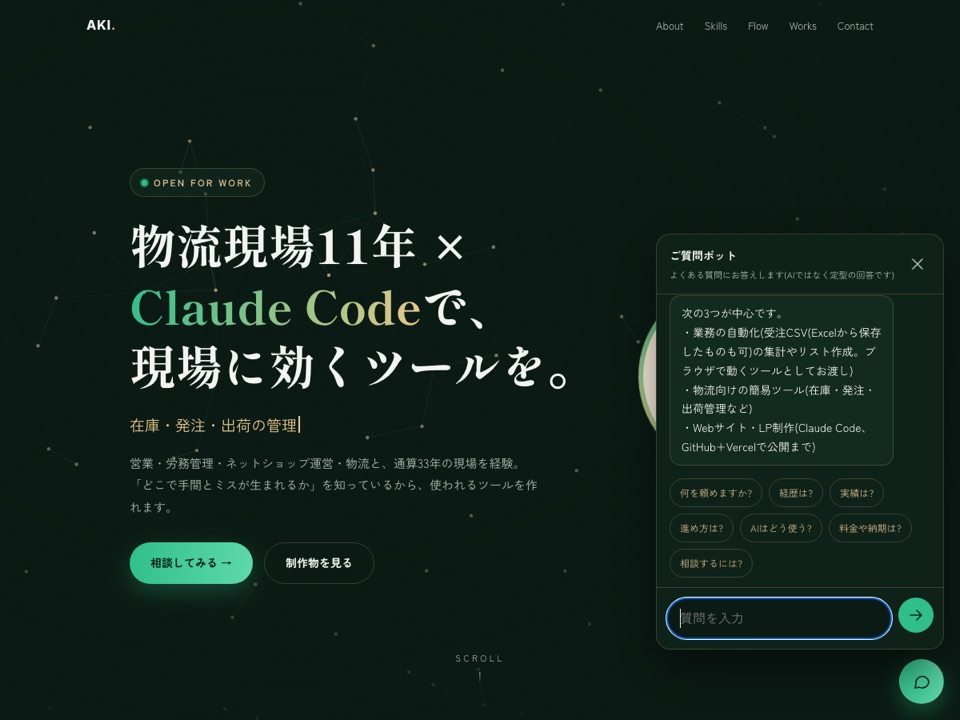
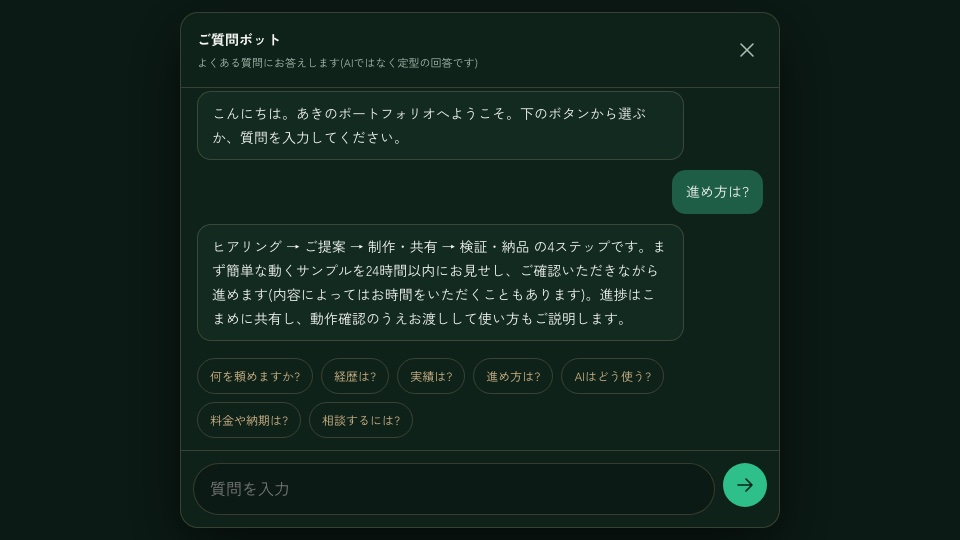
質問ボットの画面写真を会話中の画面に差し替え、契約15件にライティング含むを明記

diff --git a/index.html b/index.html
@@ -268,7 +268,7 @@
         <article class="card rv"><span class="num">01</span><span class="ic"><svg viewBox="0 0 24 24" fill="none" stroke="currentColor" stroke-width="1.5" stroke-linecap="round" stroke-linejoin="round" aria-hidden="true"><path d="M2 20V9l6 4V9l6 4V5h4v15z"/><path d="M2 20h20"/><path d="M8 17h2M14 17h2"/></svg></span><h3><span class="ph">物流現場を</span><span class="ph">11年知っている</span></h3><p>「何が面倒で、どこでミスが起きるか」を現場目線で理解。机上の空論ではない提案ができます。</p></article>
         <article class="card rv" style="--d:.1s"><span class="num">02</span><span class="ic"><svg viewBox="0 0 24 24" fill="none" stroke="currentColor" stroke-width="1.5" stroke-linecap="round" stroke-linejoin="round" aria-hidden="true"><path d="M21 12a8 8 0 0 1-11.6 7.1L4 20l1-4.6A8 8 0 1 1 21 12z"/></svg></span><h3><span class="ph">非エンジニアにも</span><span class="ph">伝わる言葉</span></h3><p>専門用語を並べず、「何ができて、どう楽になるのか」を中心にご説明します。</p></article>
         <article class="card rv"><span class="num">03</span><span class="ic"><svg viewBox="0 0 24 24" fill="none" stroke="currentColor" stroke-width="1.5" stroke-linecap="round" stroke-linejoin="round" aria-hidden="true"><circle cx="12" cy="12" r="9"/><path d="m15.5 8.5-2 5-5 2 2-5z"/></svg></span><h3>33年のビジネス経験</h3><p>営業4年・労務管理13年・ネットショップ運営5年・物流11年。ビジネス全体の流れを踏まえて相談に乗れます。</p></article>
-        <article class="card rv" style="--d:.1s"><span class="num">04</span><span class="ic"><svg viewBox="0 0 24 24" fill="none" stroke="currentColor" stroke-width="1.5" stroke-linecap="round" stroke-linejoin="round" aria-hidden="true"><circle cx="12" cy="13" r="8"/><path d="M12 9v4l2.5 2M9 2h6"/></svg></span><h3><span class="ph">早く動くものを</span><span class="ph">お見せします</span></h3><p>ご相談内容に合わせた簡単な動くサンプルを、原則24時間以内にお見せします(内容によってはお時間をいただくことがあります)。契約15件・評価5.0(全項目満点)、ご連絡には24時間以内にお返事し、進捗もこまめに共有します。</p></article>
+        <article class="card rv" style="--d:.1s"><span class="num">04</span><span class="ic"><svg viewBox="0 0 24 24" fill="none" stroke="currentColor" stroke-width="1.5" stroke-linecap="round" stroke-linejoin="round" aria-hidden="true"><circle cx="12" cy="13" r="8"/><path d="M12 9v4l2.5 2M9 2h6"/></svg></span><h3><span class="ph">早く動くものを</span><span class="ph">お見せします</span></h3><p>ご相談内容に合わせた簡単な動くサンプルを、原則24時間以内にお見せします(内容によってはお時間をいただくことがあります)。契約15件(ライティング含む)・評価5.0(全項目満点)、ご連絡には24時間以内にお返事し、進捗もこまめに共有します。</p></article>
       </div>
     </div>
   </section>
@@ -513,7 +513,7 @@
   var FAQ = [
     {q:'何を頼めますか?', k:['頼め','できる','できま','できること','依頼','対応','サービス','スキル'], a:'次の3つが中心です。\n・業務の自動化(受注CSV(Excelから保存したものも可)の集計やリスト作成。ブラウザで動くツールとしてお渡し)\n・物流向けの簡易ツール(在庫・発注・出荷管理など)\n・Webサイト・LP制作(Claude Code、GitHub+Vercelで公開まで)'},
     {q:'経歴は?', k:['経歴','経験','バックグラウンド','何年','物流','職歴'], a:'食品容器卸売業の物流部門で11年。営業4年・労務管理13年・ネットショップ運営5年・物流11年で、通算33年の社会人経験があります。'},
-    {q:'実績は?', k:['実績','作品','制作物','ポートフォリオ','事例','評価','契約'], a:'クラウドワークスで契約15件、評価5.0(全項目満点)です。制作物は、出荷リスト自動作成ツール、在庫・発注・出荷管理ツール、食品容器卸売店のホームページ「MINATO PACK」(架空のサンプル)、整体院のランディングページ(架空のサンプル)、よくある質問ボット、このポートフォリオサイトの6点を Works に掲載しています。'},
+    {q:'実績は?', k:['実績','作品','制作物','ポートフォリオ','事例','評価','契約'], a:'クラウドワークスで契約15件(ライティングのお仕事を含む)、評価5.0(全項目満点)です。制作物は、出荷リスト自動作成ツール、在庫・発注・出荷管理ツール、食品容器卸売店のホームページ「MINATO PACK」(架空のサンプル)、整体院のランディングページ(架空のサンプル)、よくある質問ボット、このポートフォリオサイトの6点を Works に掲載しています。'},
     {q:'進め方は?', k:['流れ','進め方','手順','フロー','ステップ'], a:'ヒアリング → ご提案 → 制作・共有 → 検証・納品 の4ステップです。まず簡単な動くサンプルを24時間以内にお見せし、ご確認いただきながら進めます(内容によってはお時間をいただくこともあります)。進捗はこまめに共有し、動作確認のうえお渡しして使い方もご説明します。'},
     {q:'AIはどう使う?', k:['ai','claude','クロード','エーアイ','人工知能','チェック','検証'], a:'Claudeを日常的に使っています。AIの出力はそのまま納品せず、必ず動作確認と内容の検証をしてからお渡しします。APIキーなどの情報管理にも注意して進めます。'},
     {q:'料金や納期は?', k:['料金','費用','値段','いくら','見積','予算','納期','期間','いつまで','価格'], a:'料金・納期はご相談内容によって変わるため、このページでは固定でお示ししていません。内容をうかがったうえで、範囲・納期とあわせてご提案します。\n<a href="'+CW+'" target="_blank" rel="noopener">クラウドワークスで相談する</a>'},
